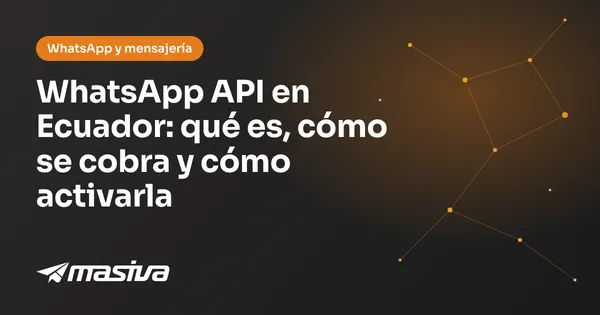
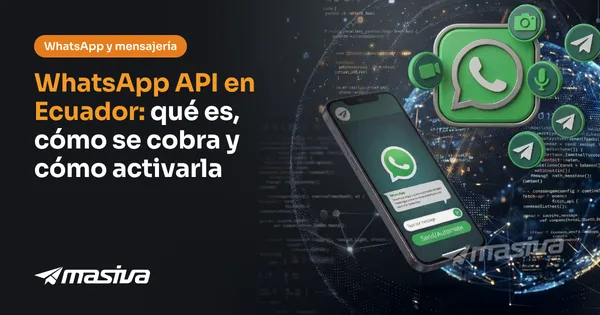
Blog: portada definitiva de la guía WhatsApp API en Ecuador (foto con título y marca de agua de MASIVA)
Claude-Session: https://claude.ai/code/session_01E3pbNvTPeusozfYxmppXC6

diff --git a/src/blog/whatsapp-api-en-ecuador.html b/src/blog/whatsapp-api-en-ecuador.html
@@ -9,7 +9,7 @@ categoria: mensajeria
 portada: /assets/img/blog/whatsapp-api-en-ecuador-portada.webp
 portada_w: 1200
 portada_h: 630
-portada_generada: true
+portada_generada: false
 minutos: 8
 faq_json: {"@context": "https://schema.org", "@type": "FAQPage", "mainEntity": [{"@type": "Question", "name": "¿La WhatsApp API es gratis en Ecuador?", "acceptedAnswer": {"@type": "Answer", "text": "No. Meta cobra cada mensaje que envía tu empresa según su categoría (marketing, utilidad, autenticación o servicio) y la tarifa asignada al país del número que lo recibe. Los mensajes que te escriben tus clientes no se cobran. Aparte, el proveedor cobra su plataforma y acompañamiento."}}, {"@type": "Question", "name": "¿Puedo usar mi número +593 actual?", "acceptedAnswer": {"@type": "Answer", "text": "Sí. Puedes conectar un número fijo o celular ecuatoriano que pueda recibir un código por SMS o llamada. Si hoy lo usas en la app WhatsApp Business, existe la opción de coexistencia para mantener la app y la API en el mismo número, sujeta a la disponibilidad que Meta habilite para tu cuenta y a que tu proveedor la soporte."}}, {"@type": "Question", "name": "¿Con la API ya no me bloquean el número?", "acceptedAnswer": {"@type": "Answer", "text": "Reduce mucho el riesgo porque es el canal oficial, pero no lo elimina. Meta mide la calidad de tus envíos y puede limitar o suspender una cuenta que escribe a personas que no lo autorizaron o que recibe muchos bloqueos y reportes."}}, {"@type": "Question", "name": "¿Necesito RUC para activar WhatsApp API?", "acceptedAnswer": {"@type": "Answer", "text": "Para operar como empresa y escalar tus límites de envío, Meta puede pedir verificar tu negocio con documentos oficiales. En Ecuador lo habitual es hacerlo con el RUC y los datos de la empresa."}}, {"@type": "Question", "name": "¿Puedo enviar mensajes masivos con WhatsApp API?", "acceptedAnswer": {"@type": "Answer", "text": "Sí, mediante plantillas aprobadas por Meta y solo a contactos que aceptaron recibir mensajes de tu empresa. Los envíos crecen por niveles: Meta sube tu límite diario a medida que tu cuenta demuestra buena calidad."}}]}
 ---
